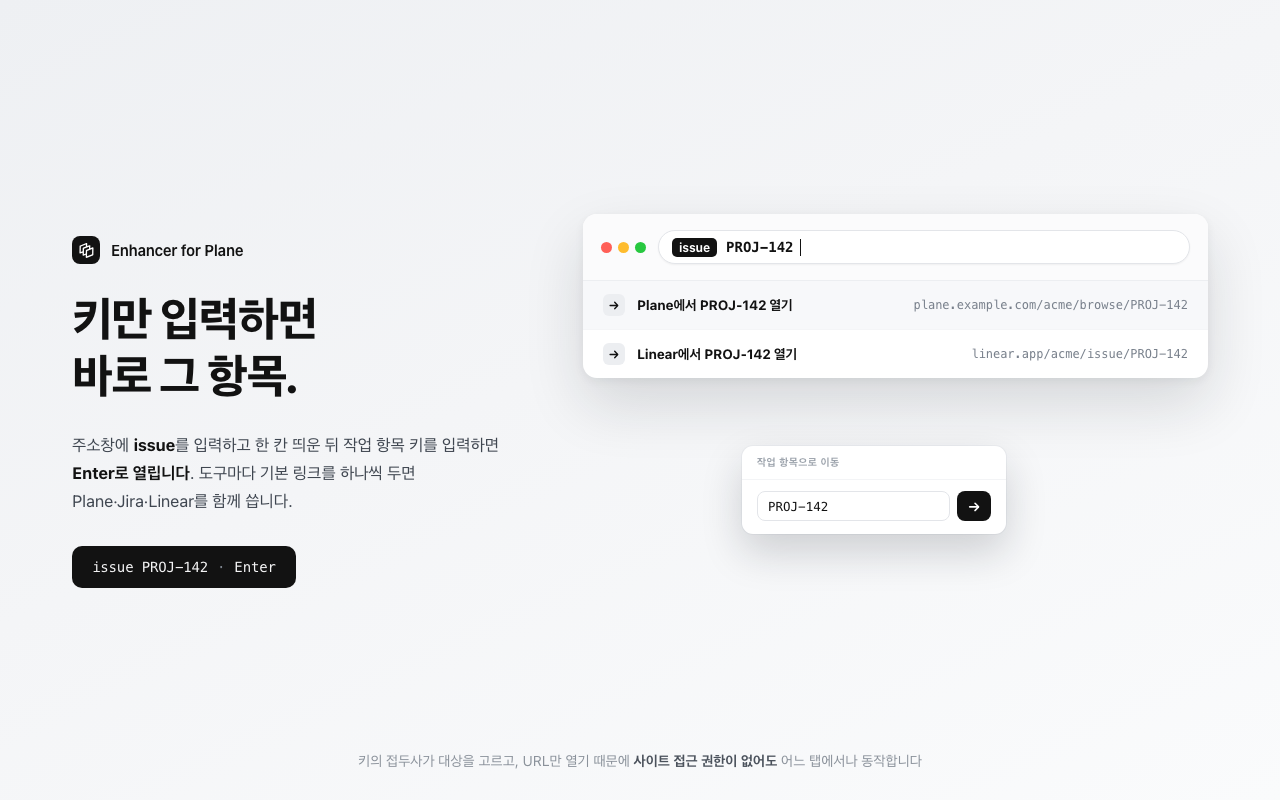
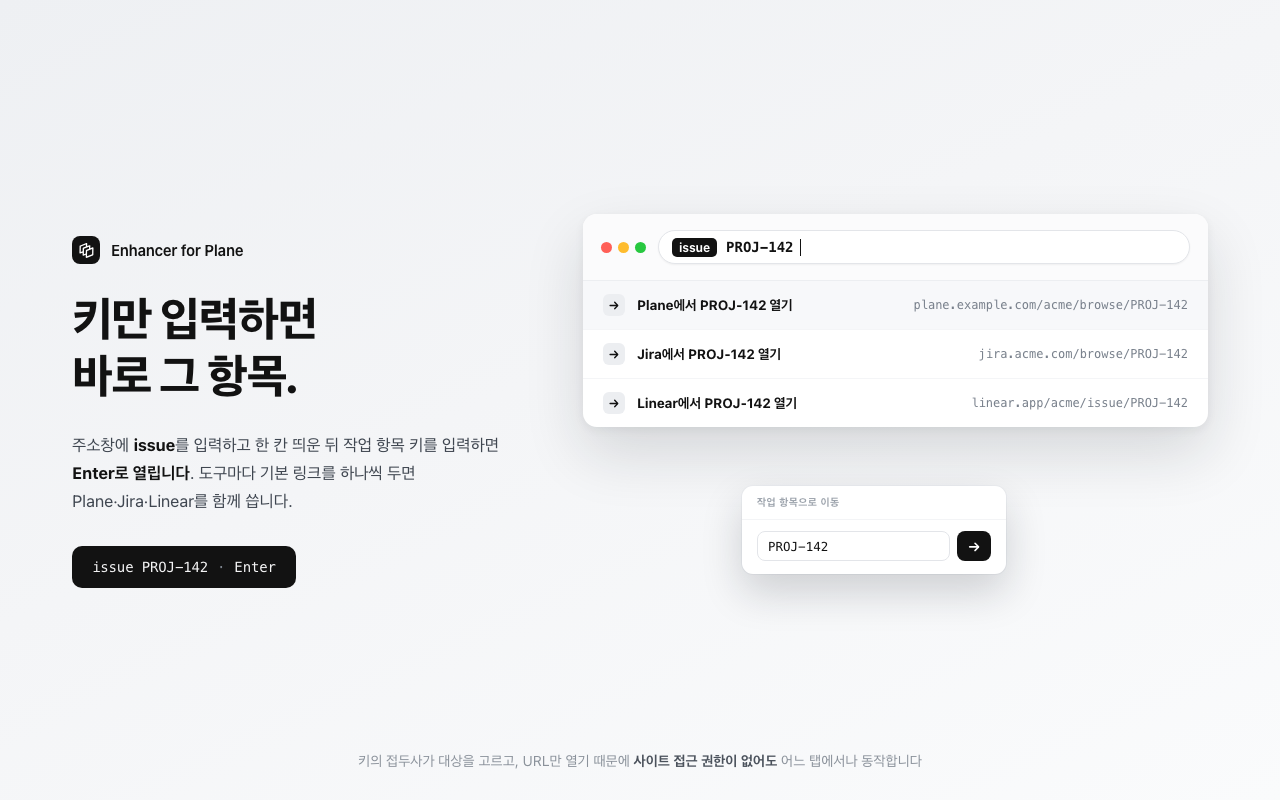
Stop the Korean header wrapping, show Jira in the hero, offer a rating link
The settings header is a flex row, and nothing kept the toggle from being the part that
gave way: at the default window width the Korean label "확장 프로그램 사용" wrapped to two
lines — measured 39px tall where one line is 20 — while the brand block beside it kept
all of its width. The brand yields now (min-width: 0), the control does not
(flex-shrink: 0), and the label never wraps.

Found by writing the assertion first and watching it fail, which needed the harness to
be able to render a page in Korean — so it can now, and that is the point beyond this
one bug: Korean strings are longer and break differently, so a header that fits in
English can wrap in Korean with nobody the wiser. The new suite also holds the header to
one row and the page to no sideways scroll.

The hero capture showed Plane and Linear; it shows Jira between them now, which is both
more honest about the three targets the copy claims and a stronger argument in the one
image a visitor is guaranteed to see.

And a "Rate it" link sits in the settings header beside GitHub and Report an issue. A
rating is the one thing a happy user can hand back, and the settings page is where they
already are.

Changed region(s): [[0.4375, 0.4375, 0.9375, 0.75]]

diff --git a/tools/dom-harness.js b/tools/dom-harness.js
@@ -71,7 +71,12 @@ function findChrome() {
 /* Page construction                                                   */
 /* ------------------------------------------------------------------ */
 
-const EN = fs.readFileSync(path.join(ROOT, "_locales/en/messages.json"), "utf8");
+const CATALOGUES = {
+  en: fs.readFileSync(path.join(ROOT, "_locales/en/messages.json"), "utf8"),
+  // Korean matters here beyond parity: its strings are longer and break differently, so a
+  // header that fits in English can wrap in Korean and nobody sees it until a user does.
+  ko: fs.readFileSync(path.join(ROOT, "_locales/ko/messages.json"), "utf8")
+};
 const fileUrl = (p) => "file://" + path.resolve(p).split(path.sep).join("/");
 
 // A stylesheet copy with the dark blocks unconditionally applied.
@@ -84,9 +89,9 @@ function darkCss(name) {
 
 // The chrome API surface these pages actually touch — no more than that, so an
 // implementation cannot pass here by calling something production does not have.
-function stub(seed) {
+function stub(seed, lang) {
   return `<script>
-const __CAT = ${EN};
+const __CAT = ${CATALOGUES[lang] || CATALOGUES.en};
 function __msg(key, subs) {
   const e = __CAT[key];
   if (!e) return "";
@@ -104,7 +109,7 @@ window.__SEED = ${JSON.stringify(seed)};
 window.__opened = null;
 window.__closed = false;
 window.chrome = {
-  i18n: { getMessage: (k, s) => __msg(k, s), getUILanguage: () => "en" },
+  i18n: { getMessage: (k, s) => __msg(k, s), getUILanguage: () => "${lang || "en"}" },
   storage: {
     sync: {
       get: (k, cb) => cb(JSON.parse(JSON.stringify(window.__SEED))),
@@ -162,7 +167,7 @@ const bg = (sel) => getComputedStyle(typeof sel === "string" ? document.querySel
 const report = () => { const el = document.createElement("pre"); el.id = "pe-results"; el.textContent = JSON.stringify(__out); document.body.appendChild(el); };
 `;
 
-function buildPage({ name, html, css, js, seed, dark, body }) {
+function buildPage({ name, html, css, js, seed, dark, lang, body }) {
   let src = fs.readFileSync(path.join(ROOT, html), "utf8");
   const cssPath = dark ? darkCss(css) : path.join(ROOT, css);
   src = src.replace(new RegExp(`href="${css}"`), `href="${fileUrl(cssPath)}"`);
@@ -170,7 +175,7 @@ function buildPage({ name, html, css, js, seed, dark, body }) {
     src = src.replace(new RegExp(`src="${f}"`), `src="${fileUrl(path.join(ROOT, f))}"`);
   }
   // The stub has to define `chrome` before the page's own scripts run.
-  src = src.replace(/<script src="file:[^"]*common\.js"><\/script>/, stub(seed) + "\n" + `<script src="${fileUrl(path.join(ROOT, "common.js"))}"></script>`);
+  src = src.replace(/<script src="file:[^"]*common\.js"><\/script>/, stub(seed, lang) + "\n" + `<script src="${fileUrl(path.join(ROOT, "common.js"))}"></script>`);
   // Transitions off. Virtual time advances timers but not the compositor clock that drives
   // a CSS transition, so a colour read after a toggle came back mid-interpolation — the
   // toggle knob measured 1.1:1 here while a real browser settled at 9.5:1. Asserting the
@@ -373,6 +378,34 @@ const suites = [
       ${TAB_READY}
       check("a profile with nowhere to run opens on Sites", () => { eq(sel(), "sites"); eq(location.hash, "#sites"); });
       check("the domain box is the visible one", () => ok(!document.getElementById("panel-sites").hidden));`
+  },
+  {
+    // Korean, at full desktop width. The header is a flex row and the toggle had nothing
+    // stopping it from being squeezed, so "확장 프로그램 사용" wrapped onto a second line
+    // beside a brand block that was free to take the space.
+    name: "options · korean header",
+    page: { name: "opt-ko", ...OPTIONS, seed: seedOf(), lang: "ko" },
+    body: `
+      ${TAB_READY}
+      check("the interface is in Korean", () => {
+        eq(document.querySelector(".master-label").textContent, "확장 프로그램 사용");
+      });
+      check("the master switch label stays on one line", () => {
+        const el = document.querySelector(".master-label");
+        const oneLine = parseFloat(getComputedStyle(el).fontSize) * 2; // generous ceiling
+        const h = el.getBoundingClientRect().height;
+        ok(h < oneLine, "label is " + h.toFixed(1) + "px tall — it wrapped");
+        return h.toFixed(1) + "px";
+      });
+      check("the header stays a single row", () => {
+        const brand = document.querySelector(".brand").getBoundingClientRect();
+        const master = document.querySelector(".master").getBoundingClientRect();
+        ok(Math.abs(brand.top - master.top) < brand.height, "the toggle dropped below the brand");
+      });
+      check("the tab row still fits without the page scrolling sideways", () => {
+        ok(document.documentElement.scrollWidth <= window.innerWidth + 1,
+           "page scrolls horizontally: " + document.documentElement.scrollWidth + " > " + window.innerWidth);
+      });`
   },
   {
     name: "options · dark mode",

diff --git a/options.html b/options.html
@@ -14,7 +14,7 @@
           <div>
             <h1 data-i18n="extShort">Enhancer for Plane</h1>
             <p data-i18n="optTagline">Body templates &amp; style rules for Plane — the open-source project management, issues &amp; wiki tool (makeplane / plane.so).</p>
-            <p class="about"><span id="appVersion"></span><a class="about-link" href="https://github.com/gaerae/enhancer-for-plane" target="_blank" rel="noopener"><svg class="about-ico" viewBox="0 0 16 16" aria-hidden="true"><path fill="currentColor" d="M8 0C3.58 0 0 3.58 0 8a8 8 0 0 0 5.47 7.59c.4.07.55-.17.55-.38 0-.19-.01-.82-.01-1.49-2.01.37-2.53-.49-2.69-.94-.09-.23-.48-.94-.82-1.13-.28-.15-.68-.52-.01-.53.63-.01 1.08.58 1.23.82.72 1.21 1.87.87 2.33.66.07-.52.28-.87.51-1.07-1.78-.2-3.64-.89-3.64-3.95 0-.87.31-1.59.82-2.15-.08-.2-.36-1.02.08-2.12 0 0 .67-.21 2.2.82a7.6 7.6 0 0 1 2-.27c.68 0 1.36.09 2 .27 1.53-1.04 2.2-.82 2.2-.82.44 1.1.16 1.92.08 2.12.51.56.82 1.27.82 2.15 0 3.07-1.87 3.75-3.65 3.95.29.25.54.73.54 1.48 0 1.07-.01 1.93-.01 2.2 0 .21.15.46.55.38A8 8 0 0 0 16 8c0-4.42-3.58-8-8-8Z"/></svg><span data-i18n="optGitHub">GitHub</span></a> <span class="about-sep">·</span> <a class="about-link" href="https://github.com/gaerae/enhancer-for-plane/issues" target="_blank" rel="noopener"><span data-i18n="optReportIssue">Report an issue</span><svg class="about-ico about-ico-after" viewBox="0 0 16 16" aria-hidden="true"><path fill="none" stroke="currentColor" stroke-width="1.5" stroke-linecap="round" stroke-linejoin="round" d="M6 3H3v10h10v-3M9.5 2.5H13V6M12.5 3 7.5 8"/></svg></a></p>
+            <p class="about"><span id="appVersion"></span><a class="about-link" href="https://github.com/gaerae/enhancer-for-plane" target="_blank" rel="noopener"><svg class="about-ico" viewBox="0 0 16 16" aria-hidden="true"><path fill="currentColor" d="M8 0C3.58 0 0 3.58 0 8a8 8 0 0 0 5.47 7.59c.4.07.55-.17.55-.38 0-.19-.01-.82-.01-1.49-2.01.37-2.53-.49-2.69-.94-.09-.23-.48-.94-.82-1.13-.28-.15-.68-.52-.01-.53.63-.01 1.08.58 1.23.82.72 1.21 1.87.87 2.33.66.07-.52.28-.87.51-1.07-1.78-.2-3.64-.89-3.64-3.95 0-.87.31-1.59.82-2.15-.08-.2-.36-1.02.08-2.12 0 0 .67-.21 2.2.82a7.6 7.6 0 0 1 2-.27c.68 0 1.36.09 2 .27 1.53-1.04 2.2-.82 2.2-.82.44 1.1.16 1.92.08 2.12.51.56.82 1.27.82 2.15 0 3.07-1.87 3.75-3.65 3.95.29.25.54.73.54 1.48 0 1.07-.01 1.93-.01 2.2 0 .21.15.46.55.38A8 8 0 0 0 16 8c0-4.42-3.58-8-8-8Z"/></svg><span data-i18n="optGitHub">GitHub</span></a> <span class="about-sep">·</span> <a class="about-link" href="https://chromewebstore.google.com/detail/dicjfphghjfljkifogkplgdeefjdkhbo/reviews" target="_blank" rel="noopener"><span data-i18n="optRate">Rate it</span><svg class="about-ico about-ico-after" viewBox="0 0 16 16" aria-hidden="true"><path fill="currentColor" d="M8 1.6l1.9 3.9 4.3.6-3.1 3 .74 4.3L8 11.4l-3.84 2 .74-4.3-3.1-3 4.3-.6z"/></svg></a> <span class="about-sep">·</span> <a class="about-link" href="https://github.com/gaerae/enhancer-for-plane/issues" target="_blank" rel="noopener"><span data-i18n="optReportIssue">Report an issue</span><svg class="about-ico about-ico-after" viewBox="0 0 16 16" aria-hidden="true"><path fill="none" stroke="currentColor" stroke-width="1.5" stroke-linecap="round" stroke-linejoin="round" d="M6 3H3v10h10v-3M9.5 2.5H13V6M12.5 3 7.5 8"/></svg></a></p>
           </div>
         </div>
         <label class="master">

diff --git a/store-assets/screenshot-1-open.html b/store-assets/screenshot-1-open.html
@@ -77,7 +77,7 @@
   .lang-ko .sname { font-weight: 700; }
 
   /* The same input on the toolbar popup, so the poster shows both ways in. */
-  .panel.pop { left: 742px; top: 446px; width: 264px; }
+  .panel.pop { left: 742px; top: 486px; width: 264px; }
   .panel.pop .head {
     font-size: 10.5px;
     font-weight: 700;
@@ -138,6 +138,11 @@
       <div class="row">
         <span class="go">→</span>
         <span class="sname" data-t="s2"></span>
+        <span class="surl">jira.acme.com/browse/PROJ-142</span>
+      </div>
+      <div class="row">
+        <span class="go">→</span>
+        <span class="sname" data-t="s3"></span>
         <span class="surl">linear.app/acme/issue/PROJ-142</span>
       </div>
     </div>
@@ -165,7 +170,8 @@
         "In the address bar type <b>issue</b>, a space, then the work item key — " +
         "<b>Enter opens it</b>. One base link per tool, so Plane, Jira and Linear all work.",
       s1: "Open PROJ-142 in Plane",
-      s2: "Open PROJ-142 in Linear",
+      s2: "Open PROJ-142 in Jira",
+      s3: "Open PROJ-142 in Linear",
       popLabel: "Go to work item",
       caption:
         "The key's prefix picks the target — and since it only opens a URL, it needs " +
@@ -177,7 +183,8 @@
         "주소창에 <b>issue</b>를 입력하고 한 칸 띄운 뒤 작업 항목 키를 입력하면 " +
         "<b>Enter로 열립니다</b>. 도구마다 기본 링크를 하나씩 두면 Plane·Jira·Linear를 함께 씁니다.",
       s1: "Plane에서 PROJ-142 열기",
-      s2: "Linear에서 PROJ-142 열기",
+      s2: "Jira에서 PROJ-142 열기",
+      s3: "Linear에서 PROJ-142 열기",
       popLabel: "작업 항목으로 이동",
       caption:
         "키의 접두사가 대상을 고르고, URL만 열기 때문에 <b>사이트 접근 권한이 없어도</b> " +

diff --git a/options.css b/options.css
@@ -43,6 +43,9 @@ body {
   display: flex;
   align-items: center;
   gap: 12px;
+  /* The header is a flex row: without this the brand refuses to give up any of its own
+     width, and the toggle beside it gets squeezed instead. */
+  min-width: 0;
 }
 .brand img {
   border-radius: 7px;
@@ -383,6 +386,10 @@ input.invalid {
   gap: 8px;
   cursor: pointer;
   user-select: none;
+  /* A control is not the thing that should shrink. Measured: at the default window width
+     the Korean label ("확장 프로그램 사용") wrapped to two lines — 39px tall where one line
+     is 20 — because the brand block beside it kept all of its width. */
+  flex-shrink: 0;
 }
 .master input,
 .row-toggle input {
@@ -431,6 +438,7 @@ input:checked + .switch.sm::after {
 .master-label {
   font-size: 13px;
   font-weight: 600;
+  white-space: nowrap;
 }
 .row-toggle {
   cursor: pointer;
